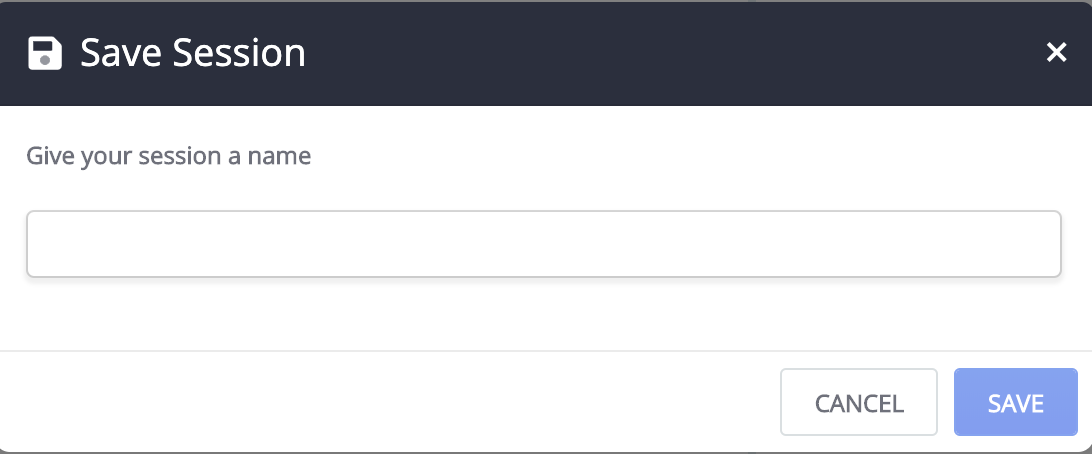
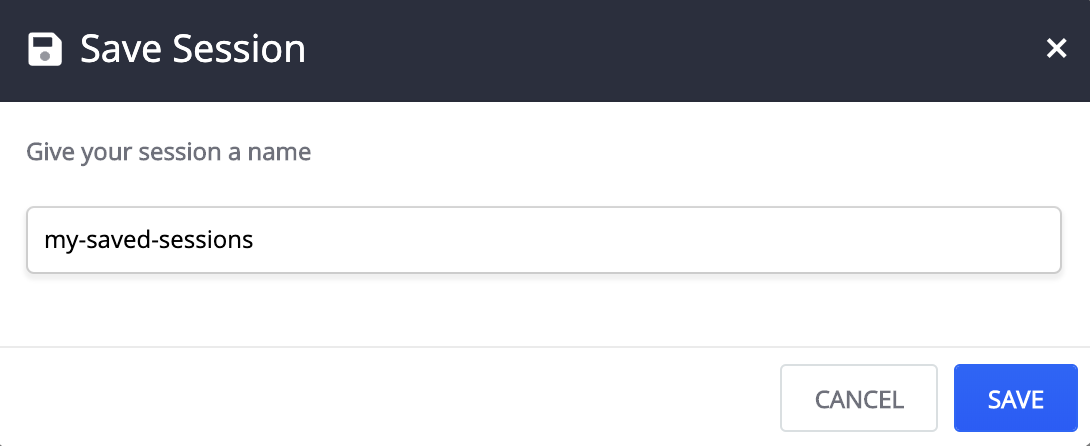
docs: websessions list article update (save and share)

diff --git a/user-guide/live-traffic/web-sessions/web-sessions-list.md b/user-guide/live-traffic/web-sessions/web-sessions-list.md
@@ -31,8 +31,8 @@ Certain key information is displayed in the columns of the Web Sessions list, in
 - __Protocol__ - The protocol (HTTP/HTTPS/FTP) used by the Session
 - __Host__ - The hostname and the port of the server to which the request was sent
 - __URL__ - The URL path, file, and query string from the request
-- __Method__ - The HTTP Method used by the request (GET, POST, etc,)
-- __Body__ - The number of bytes in the responze body
+- __Method__ - The HTTP Method used by the request (GET, POST, etc.)
+- __Body__ - The number of bytes in the response body
 - __Caching__ - Values from the Response's Expires and Cache-Control headers
 - __Content-Type__ The Content-Type header from the response
 - __Process__ The local OS process from which the traffic originated
@@ -40,31 +40,58 @@ Certain key information is displayed in the columns of the Web Sessions list, in
 
 ### Web Sessions Context Menu
 
-The context menu for the Web Sessions list exposes a number of actions that can be applied for a Session or multiple Sessions.
-- To invoke the context menu, press right click on Winows (__Control__ + mouse click on Mac).
+The context menu for the Web Sessions list exposes several actions that can be applied for a Session or multiple Sessions.
+- To show the context menu, press right-click on Windows (__Control__ + mouse click on Mac).
 
 ![Web Sessions list context menu](../../../images/livetraffic/websessions/websessions-list-context-menu.png)
 
 ## Save
 
-The menu option __Save__ provides means to save selected sessions. The saved sessions will appear in the __Saved Sessions__ (the list to the left of Fiddler Everywhere interface) from where they can be re-opened later, exported and shared.
+The context menu option __Save__ provides the means to save selected sessions. The saved sessions will appear in the __Saved Sessions__ (the list to the left of Fiddler Everywhere interface) from where they can be re-opened later, exported, and shared.
 
-- Selected sessions - Saves all currently selected sessions.
-- Unselected sessions - Saves all currently unselected sessions.
-- All Sessions - All captured traffic will be saved.
+- __Selected sessions__ - Saves all selected sessions.
+- __Unselected sessions__ - Saves all unselected sessions.
+- __All Sessions__ - Saves all captured traffic.
 
-ALl three options will prompt a save dialog.
+All three options will display a save prompt.
 
+1. Choose a save option from the context menu
+![Context menu Save options](../../../images/livetraffic/websessions/websessions-list-context-save-options.png)
+
+2. Enter your session name and click __Save__
 ![Save session prompt](../../../images/livetraffic/websessions/websessions-list-context-save.png)
 
-The saved sessions are immediatly loaded in the __Saved Sessions__ list.
+3. The saved sessions are immediately loaded in the __Saved Sessions__ list.
 ![Saved Sessions list](../../../images/livetraffic/websessions/websessions-list-context-saved-list.png)
 
-Double-click on the saved session to load it in the __Web Sessions__ list.
+4. Double-click on the saved session to load it in the __Web Sessions__ list.
 ![Load saved session](../../../images/livetraffic/websessions/websessions-list-context-saved-loaded.png)
 
+>tip Alternatively, you can save all captured traffic [via the __Save__ button from the toolbar]({%slug web-sessions-toolbar%}#save)
 
 ## Share
+
+The context menu option __Share__ enables the sharing of sessions. Before any session is shared, it is saved as an entry in the __Saved Sessions__ list. Then the entry can be shared via email.
+
+- __Selected sessions__ - Saves & shares all selected sessions.
+- __Unselected sessions__ - Saves & shares all unselected sessions.
+- __All Sessions__ - Saves and shares all captured traffic.
+
+All three options will initially display a save prompt and then a share prompt window.
+
+1. Choose a share option from the context menu
+![Context menu Share options](../../../images/livetraffic/websessions/websessions-list-share-options.png)
+
+2. The selected sessions are being saved. Enter your session name and click __Save and proceed__
+![Save session prompt](../../../images/livetraffic/websessions/websessions-list-context-save.png)
+
+3. The share screen prompt window appears. Enter valid email and optionally add notes. Once ready, click __Share__.
+![Save session prompt](../../../images/livetraffic/websessions/websessions-list-share-email-window.png)
+
+>important Fiddler Everywhere has a quota limit for creating snapshots of sessions. Refer to the FIddler Everywhere plans page for details.
+
+
+
 ## Remove
 ## Comment
 ## Mark
